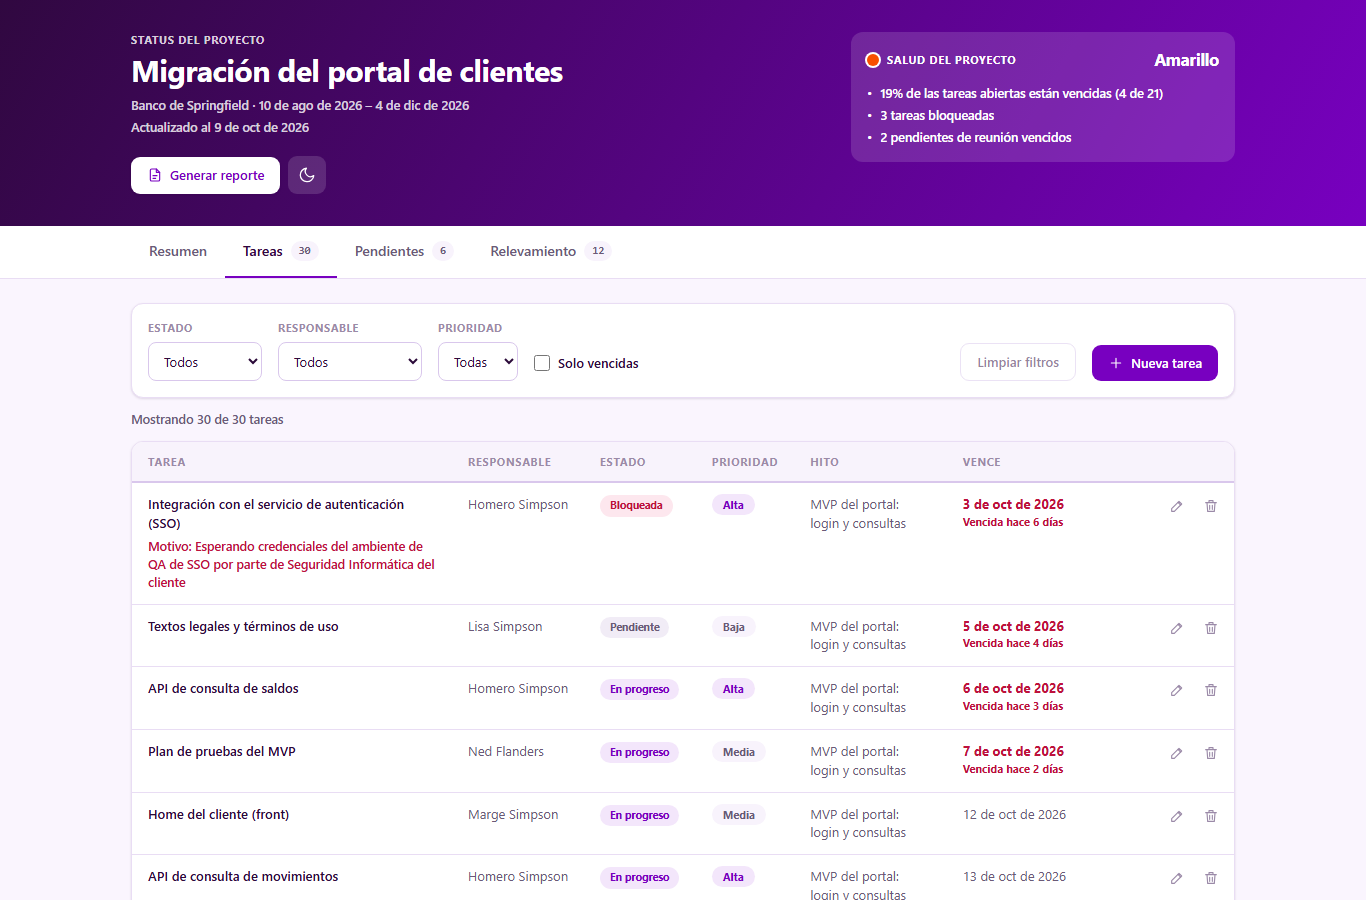
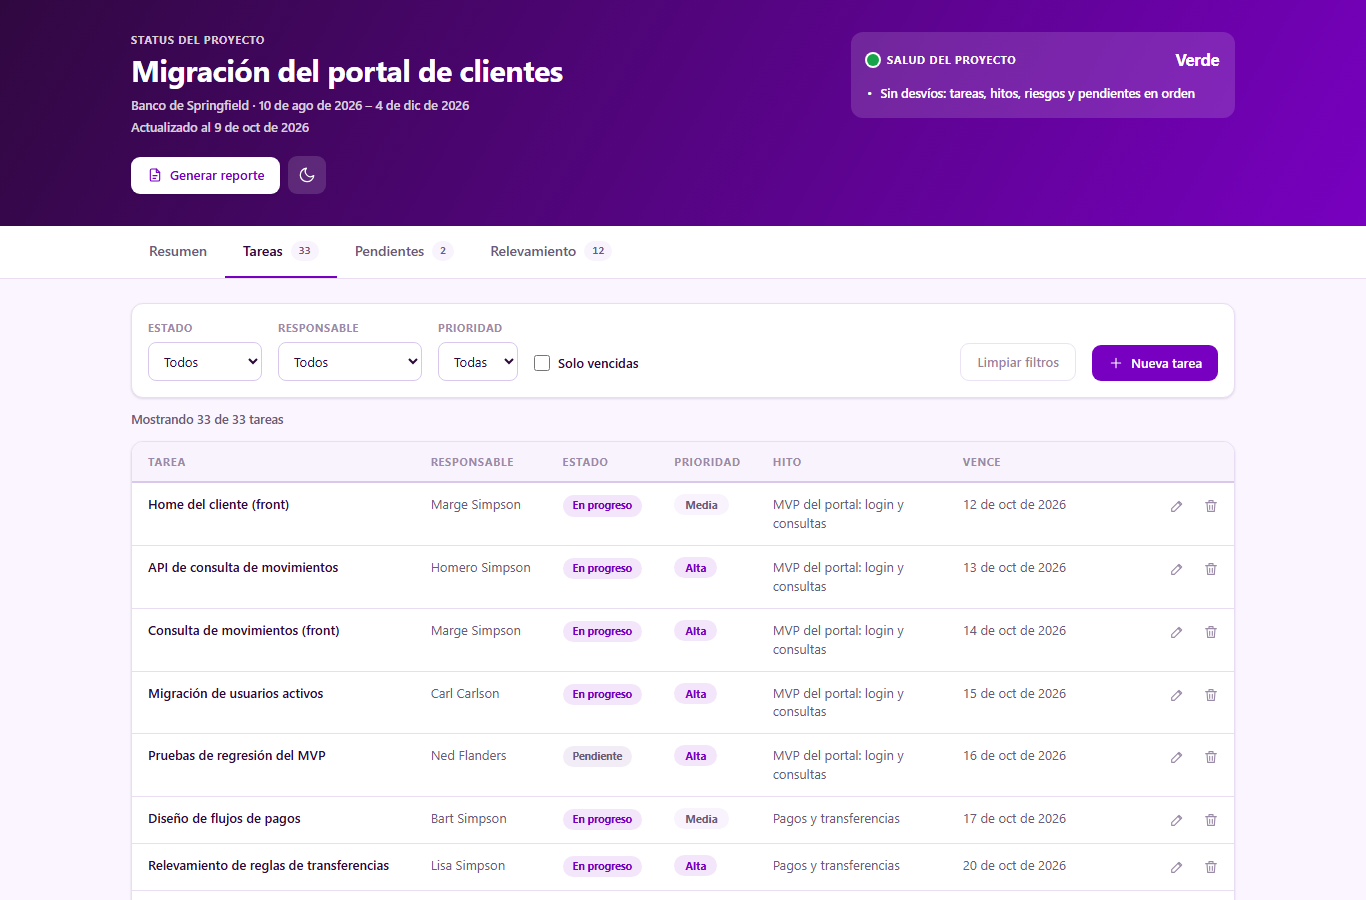
feat: make the demo project green with more completed tasks
Completes the overdue tasks, unblocks the remaining blocked ones, closes
the overdue meeting action items and adds three finished tasks for the
MVP milestone. Updates the tests, the docs and the screenshots.

diff --git a/src/lib/data.test.ts b/src/lib/data.test.ts
@@ -58,16 +58,28 @@ describe("demo data: date shifting", () => {
   });
 });
 
-describe("demo data: the project is always yellow", () => {
+describe("demo data: the project is always green", () => {
   const baseline = healthOn(REF);
 
-  it("is yellow on the reference date, with the three documented reasons", () => {
-    expect(baseline.level).toBe("yellow");
-    expect(baseline.reasons).toEqual([
-      "19% de las tareas abiertas están vencidas (4 de 21)",
-      "3 tareas bloqueadas",
-      "2 pendientes de reunión vencidos",
-    ]);
+  it("is green on the reference date, with nothing overdue, blocked or at risk", () => {
+    expect(baseline.level).toBe("green");
+    expect(baseline.reasons).toEqual(["Sin desvíos: tareas, hitos, riesgos y pendientes en orden"]);
+    const m = computeMetrics(getProjectData(REF), REF);
+    expect(m.overdueTasks).toHaveLength(0);
+    expect(m.blockedTasks).toHaveLength(0);
+    expect(m.overdueActionItems).toHaveLength(0);
+    expect(m.overdueMilestones).toHaveLength(0);
+    expect(m.openRisksByImpact.high).toBe(0);
+  });
+
+  it("still has progress to show: recent completions and the MVP on track", () => {
+    const data = getProjectData(REF);
+    const m = computeMetrics(data, REF);
+    expect(m.progressPct).toBe(48);
+    expect(m.milestones.find((s) => s.milestone.id === "m2")?.state).toBe("on_track");
+    const periodStart = addDays(REF, -14);
+    const recent = data.tasks.filter((t) => t.status === "done" && t.completedAt! >= periodStart);
+    expect(recent.length).toBeGreaterThanOrEqual(5);
   });
 
   it.each(OFFSETS)("is identical when opened %i days from the reference date", (offset) => {

diff --git a/src/app/api/report/route.test.ts b/src/app/api/report/route.test.ts
@@ -99,7 +99,7 @@ describe("POST /api/report without an API key", () => {
     for (const req of [request(), request("{no es json")]) {
       const { status, body } = await call(POST, req);
       expect(status).toBe(200);
-      expect(body.markdown).toContain("Integración con el servicio de autenticación (SSO)");
+      expect(body.markdown).toContain("Home del cliente (front)"); // a task that only exists in the demo data
     }
   });
 
@@ -108,7 +108,7 @@ describe("POST /api/report without an API key", () => {
     const { body } = await call(POST, request({ tasks: [validTask()] }));
     expect(body.markdown).toContain("Tarea especial");
     expect(body.markdown).toContain("Falta la aprobación");
-    expect(body.markdown).not.toContain("Integración con el servicio de autenticación (SSO)");
+    expect(body.markdown).not.toContain("Home del cliente (front)"); // the demo tasks are replaced, not merged
   });
 
   it("is never rate limited, since it costs nothing", async () => {

diff --git a/docs/SPEC.md b/docs/SPEC.md
@@ -33,7 +33,7 @@ Definido en [`src/lib/types.ts`](../src/lib/types.ts). Fechas en ISO `AAAA-MM-DD
 
 [`src/data/proyecto-demo.json`](../src/data/proyecto-demo.json): "Migración del portal de clientes" para un banco ficticio. Tiene 4 hitos, 30 tareas de 6 responsables, 10 pendientes de 3 reuniones y 12 ítems relevados.
 
-Las fechas del JSON están escritas respecto de `referenceDate`. Al cargarse ([`src/lib/data.ts`](../src/lib/data.ts)), todas se corren `(hoy − referenceDate)` días, así que el estado del proyecto es el mismo cualquier día que se abra: **amarillo**, con 4 tareas vencidas, 3 bloqueadas y 2 pendientes vencidos.
+Las fechas del JSON están escritas respecto de `referenceDate`. Al cargarse ([`src/lib/data.ts`](../src/lib/data.ts)), todas se corren `(hoy − referenceDate)` días, así que el estado del proyecto es el mismo cualquier día que se abra: **verde**, con 16 de 33 tareas completadas (48%), ninguna vencida ni bloqueada y ningún pendiente vencido.
 
 ## 4. KPIs
 
@@ -135,7 +135,7 @@ Cada reporte con IA tiene costo, y el endpoint es público. Por eso las llamadas
 |---|---|
 | `lib/dates.test.ts` | "hoy" en horario de Argentina (incluidos los bordes de UTC), `daysBetween`, `addDays`, formato de fechas |
 | `lib/metrics.test.ts` | KPIs, estado de cada hito y semáforo: umbrales de 10% y 20%, motivos y su orden, singular y plural |
-| `lib/data.test.ts` | el corrimiento de fechas de los datos de demo y que el proyecto sea **siempre amarillo**, con los mismos motivos, sea cual sea el día |
+| `lib/data.test.ts` | el corrimiento de fechas de los datos de demo y que el proyecto sea **siempre verde**, con los mismos motivos, sea cual sea el día |
 | `lib/tasks.test.ts` | validación y normalización de tareas, y `parseTasks` con datos corruptos o malintencionados |
 | `lib/report-summary.test.ts` | qué entra en cada sección del reporte (período, próximos 7 días, riesgos, hallazgos) |
 | `lib/report-template.test.ts` | estructura del reporte, estados vacíos y los topes para que entre en una página |

diff --git a/CLAUDE.md b/CLAUDE.md
@@ -95,11 +95,13 @@ generarse relativos a la fecha actual para que haya vencidas y próximas.
 
 ## Datos de prueba
 Un proyecto ficticio realista (ej.: "Migración del portal de clientes" para un banco o retail):
-- 4 hitos (1 cumplido, 1 en riesgo)
-- ~30 tareas, 5–6 responsables, mezcla de estados, ~15% vencidas, 2–3 bloqueadas con motivo
-- ~10 action items de 3 reuniones distintas
-- ~12 ítems relevados (requerimientos, hallazgos y 3–4 riesgos, al menos 1 de impacto alto abierto)
-El proyecto debe quedar en **amarillo** con los datos por defecto (es lo más interesante para la demo).
+- 4 hitos (1 cumplido, el resto en curso)
+- ~33 tareas, 6 responsables, mezcla de estados (completadas, en progreso, pendientes)
+- ~10 action items de 3 reuniones distintas, la mayoría cerrados
+- ~12 ítems relevados (requerimientos, hallazgos y riesgos; queda al menos 1 hallazgo de impacto alto abierto)
+El proyecto queda en **verde** con los datos por defecto: sin tareas vencidas ni bloqueadas, sin pendientes vencidos
+y con avance reciente (tareas cerradas en los últimos 14 días). Para mostrar un desvío en la demo, crear o editar tareas
+desde el tablero (por ejemplo, una bloqueada o vencida) y ver cómo cambia el semáforo.
 
 ## KPIs (`src/lib/metrics.ts`)
 - % de avance = tareas `done` / total
@@ -117,7 +119,7 @@ Devuelve `{ level: "green" | "yellow" | "red", reasons: string[] }` (motivos en 
 - **Amarillo**: > 10% de tareas abiertas vencidas, o al menos una tarea bloqueada,
   o pendientes de reunión vencidos.
 - **Verde**: el resto.
-(Ajustar datos o umbrales para que el default quede en amarillo.)
+(Los datos de demo están ajustados para que el default quede en verde.)
 
 ## Status report (`POST /api/report`)
 Salida en Markdown, en español, tono ejecutivo, máximo ~1 página, con estas secciones:
